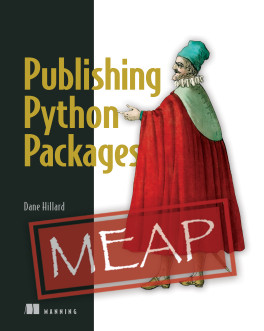
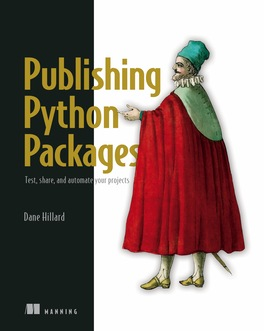
Update book title (#39)

Changed region(s): [[0.0606, 0.1511, 0.9394, 0.9668], [0.6061, 0.4532, 0.6667, 0.574], [0.697, 0.1208, 0.7879, 0.2115]]

diff --git a/index.html b/index.html
@@ -15,7 +15,7 @@
 
     <link rel="canonical" href="https://pypackages.com">
 
-    <title>Publishing Python Packages | Dane Hillard</title>
+    <title>Publishing Python Packages: Test, share, and automate your projects | Dane Hillard</title>
     <meta name="description" content="Learn to create, publish, and maintain shared Python software through practical examples.">
 
     <link rel="preconnect" href="https://fonts.gstatic.com">
@@ -48,7 +48,7 @@
         {
             "@context" : "http://schema.org",
             "@type": "Book",
-            "name": "Publishing Python Packages",
+            "name": "Publishing Python Packages: Test, share, and automate your projects",
             "description": "Learn to create, publish, and maintain shared Python software through practical examples.",
             "author": {
                 "@type": "Person",

diff --git a/src/components/TheHeader.vue b/src/components/TheHeader.vue
@@ -10,12 +10,12 @@
             src="/publishing-python-packages-cover.jpg"
             width="264"
             height="331"
-            alt="Book cover for Publishing Python Packages by Dane Hillard from Manning Books"
+            alt="Book cover for Publishing Python Packages: Test, share, and automate your projects by Dane Hillard from Manning Books"
         />
       </a>
     </div>
     <div class="title">
-      <h1 class="heading--1">Publishing Python Packages</h1>
+        <h1 class="heading--1">Publishing Python Packages<span class="subtitle">Test, share, and automate your projects</span></h1>
       <span
       >by
           <PrimaryLink href="https://dane.engineering" target="_blank" trusted

diff --git a/src/components/Pitch.vue b/src/components/Pitch.vue
@@ -13,7 +13,7 @@
       ><PrimaryLink
           href="https://www.manning.com/books/publishing-python-packages?utm_source=danehillard&utm_medium=affiliate&utm_campaign=book_hillard3_publishing_8_26_21&a_aid=danehillard&a_bid=3698229e"
           target="_blank"
-      >Publishing Python Packages</PrimaryLink
+      >Publishing Python Packages: Test, share, and automate your projects</PrimaryLink
       ></em
       ></strong
       > is a book about creating a streamlined, repeatable process for authoring

diff --git a/src/components/WhatsInside.vue b/src/components/WhatsInside.vue
@@ -3,7 +3,8 @@
     <p>
       Whether you're looking to create your first published Python package or
       trying to reduce the maintenance burden of the packages you already work
-      on, <em>Publishing Python Packages</em> has something for you:
+      on, <em>Publishing Python Packages: Test, share, and automate your projects</em>
+      has something for you:
     </p>
 
     <ul>

diff --git a/src/index.scss b/src/index.scss
@@ -65,6 +65,13 @@ $levels: 6;
   }
 }
 
+.subtitle {
+  display: block;
+  font-style: italic;
+  font-size: calc(1em * 2 / 3);
+  color: var(--color-font-muted);
+}
+
 p {
   max-width: 65ch;
   text-align: justify;

diff --git a/src/components/BuyNow.vue b/src/components/BuyNow.vue
@@ -24,7 +24,7 @@ export default {
   },
   data() {
     return {
-      numCopiesSold: 814,
+      numCopiesSold: 826,
     };
   },
 }
